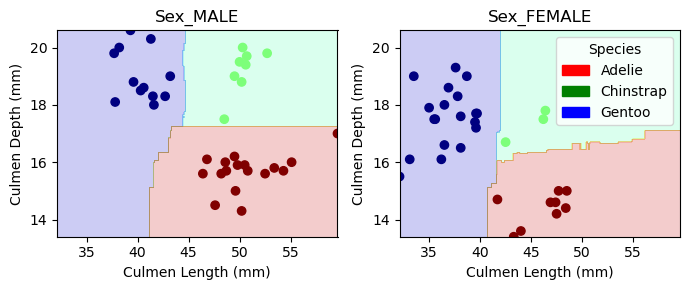
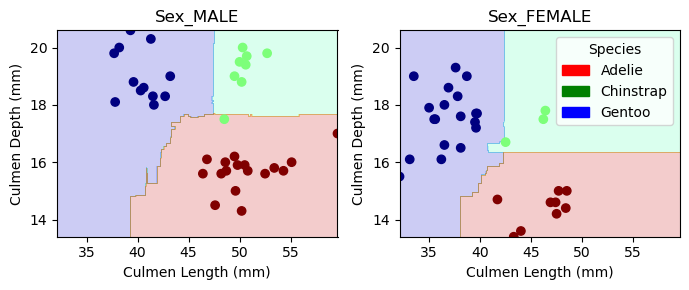
Revision 2

diff --git a/docs/posts/example-blog-post/index.html b/docs/posts/example-blog-post/index.html
@@ -214,18 +214,18 @@ background-size: cover;
 
 <section id="abstract" class="level1">
 <h1>Abstract</h1>
-<p>In this study, we apply machine learning techniques to classify three penguin species—Adelie, Chinstrap, and Gentoo—using the famous Palmer Penguins dataset. We preprocess the data by handling missing values and encoding categorical variables, then explored feature relationships through visualizations. Then, we find the three most effective features for a Random Forest classifier and trained it using selected features. We were able to achieve 100% accuracy on the test set. This underscores the effectiveness of the chosen features and model in accurately distinguishing between the penguin species.</p>
+<p>In this study, we apply machine learning techniques to classify three penguin species—Adelie, Chinstrap, and Gentoo—using the famous Palmer Penguins dataset. We preprocess the data by handling missing values and encoding categorical variables, then explored feature relationships through visualizations. Then, we find the three most effective features for a Random Forest classifier and trained it using selected features. We were able to achieve 99% accuracy on the test set. This underscores the effectiveness of the chosen features and model in accurately distinguishing between the penguin species.</p>
 </section>
 <section id="explore" class="level1">
 <h1>Explore</h1>
 <p>Before we start exploring the data, we need to load in the Palmer’s Penguins Dataset and take a look at the data we are given.</p>
-<div id="cell-4" class="cell" data-execution_count="103">
+<div id="cell-4" class="cell" data-execution_count="9">
 <div class="sourceCode cell-code" id="cb1"><pre class="sourceCode python code-with-copy"><code class="sourceCode python"><span id="cb1-1"><a href="#cb1-1" aria-hidden="true" tabindex="-1"></a><span class="im">import</span> pandas <span class="im">as</span> pd</span>
 <span id="cb1-2"><a href="#cb1-2" aria-hidden="true" tabindex="-1"></a></span>
 <span id="cb1-3"><a href="#cb1-3" aria-hidden="true" tabindex="-1"></a>train_url <span class="op">=</span> <span class="st">"https://raw.githubusercontent.com/PhilChodrow/ml-notes/main/data/palmer-penguins/train.csv"</span></span>
 <span id="cb1-4"><a href="#cb1-4" aria-hidden="true" tabindex="-1"></a>train <span class="op">=</span> pd.read_csv(train_url)</span>
 <span id="cb1-5"><a href="#cb1-5" aria-hidden="true" tabindex="-1"></a>train.head()</span></code><button title="Copy to Clipboard" class="code-copy-button"><i class="bi"></i></button></pre></div>
-<div class="cell-output cell-output-display" data-execution_count="103">
+<div class="cell-output cell-output-display" data-execution_count="9">
 <div>
 
 
@@ -360,7 +360,7 @@ background-size: cover;
 </div>
 </div>
 <p>Now, we need to clean this data. First, we can see that there are some missing values. In this class, we haven’t learned how to impude the missing values yet, so I will just get rid of the rows that have N/A values. Then, I will use the provided code to “one-hot encode” the categorical features. These categorical columns should now be True/False rather than Yes/No.</p>
-<div id="cell-6" class="cell" data-execution_count="140">
+<div id="cell-6" class="cell" data-execution_count="11">
 <div class="sourceCode cell-code" id="cb2"><pre class="sourceCode python code-with-copy"><code class="sourceCode python"><span id="cb2-1"><a href="#cb2-1" aria-hidden="true" tabindex="-1"></a><span class="im">from</span> sklearn.preprocessing <span class="im">import</span> LabelEncoder</span>
 <span id="cb2-2"><a href="#cb2-2" aria-hidden="true" tabindex="-1"></a>le <span class="op">=</span> LabelEncoder()</span>
 <span id="cb2-3"><a href="#cb2-3" aria-hidden="true" tabindex="-1"></a>le.fit(train[<span class="st">"Species"</span>])</span>
@@ -376,7 +376,7 @@ background-size: cover;
 <span id="cb2-13"><a href="#cb2-13" aria-hidden="true" tabindex="-1"></a></span>
 <span id="cb2-14"><a href="#cb2-14" aria-hidden="true" tabindex="-1"></a>X_train, y_train <span class="op">=</span> prepare_data(train)</span>
 <span id="cb2-15"><a href="#cb2-15" aria-hidden="true" tabindex="-1"></a>X_train.head()</span></code><button title="Copy to Clipboard" class="code-copy-button"><i class="bi"></i></button></pre></div>
-<div class="cell-output cell-output-display" data-execution_count="140">
+<div class="cell-output cell-output-display" data-execution_count="11">
 <div>
 
 
@@ -493,7 +493,7 @@ background-size: cover;
 </div>
 </div>
 <p>Now, I am going to merge the our target column with our features into a new dataset so that I can create visualizations easier.</p>
-<div id="cell-8" class="cell" data-execution_count="147">
+<div id="cell-8" class="cell" data-execution_count="12">
 <div class="sourceCode cell-code" id="cb3"><pre class="sourceCode python code-with-copy"><code class="sourceCode python"><span id="cb3-1"><a href="#cb3-1" aria-hidden="true" tabindex="-1"></a><span class="im">import</span> pandas <span class="im">as</span> pd</span>
 <span id="cb3-2"><a href="#cb3-2" aria-hidden="true" tabindex="-1"></a><span class="im">import</span> seaborn <span class="im">as</span> sns</span>
 <span id="cb3-3"><a href="#cb3-3" aria-hidden="true" tabindex="-1"></a><span class="im">import</span> matplotlib.pyplot <span class="im">as</span> plt</span>
@@ -517,7 +517,7 @@ background-size: cover;
 </div>
 </div>
 <p>This scatterplot shows the relationship between Flipper Length (mm) and Body Mass (g) by the three penguin species: Adelie, Chinstrap, and Gentoo. My first takeaway from this plot is that Gentoo penguins (represented by squares) have significantly higher higher body mass and longer flipper lengths than the other two species. Additionally, there is notable overlap between Adelie and Chinstrap penguins (represented by circles and X’s) in the middle of the graph. For a classification problem, this is a little alarming for me because this overlap suggests that Flipper Length and Body Mass alone won’t be able to reliably distinguish between Adelie and Chinstrap species. I may need to look for a different quantatative relationship to get to 100% accuracy.</p>
-<div id="cell-10" class="cell">
+<div id="cell-10" class="cell" data-execution_count="13">
 <div class="sourceCode cell-code" id="cb4"><pre class="sourceCode python code-with-copy"><code class="sourceCode python"><span id="cb4-1"><a href="#cb4-1" aria-hidden="true" tabindex="-1"></a><span class="co"># map to have species name on x-axis rather than 0,1,2</span></span>
 <span id="cb4-2"><a href="#cb4-2" aria-hidden="true" tabindex="-1"></a><span class="bu">map</span> <span class="op">=</span> {<span class="dv">0</span>: <span class="st">"Adelie"</span>, <span class="dv">1</span>: <span class="st">"Chinstrap"</span>, <span class="dv">2</span>: <span class="st">"Gentoo"</span>}</span>
 <span id="cb4-3"><a href="#cb4-3" aria-hidden="true" tabindex="-1"></a></span>
@@ -537,7 +537,7 @@ background-size: cover;
 </div>
 </div>
 <p>This boxplot illustrates the distribution of culmen length (mm) across the three penguin species. One observation is that Adelie penguins have the shortest culmen length by far. They have a median significantly lower than both Chinstrap and Gentoo penguins. Chinstrap penguins have the longest culmen length on average, with a higher IQR. Gentoo penguins tend to fall between the two but exhibit a slightly more compact distribution. This visualization reinforces the idea that culmen length could be a useful feature for distinguishing Adelie penguins from the other two species, but there may be some overlap between Chinstrap and Gentoo, so I’ll have to address this when I am searching for my 3 features.</p>
-<div id="cell-12" class="cell">
+<div id="cell-12" class="cell" data-execution_count="14">
 <div class="sourceCode cell-code" id="cb5"><pre class="sourceCode python code-with-copy"><code class="sourceCode python"><span id="cb5-1"><a href="#cb5-1" aria-hidden="true" tabindex="-1"></a><span class="co"># Create a new 'Sex' column based on one-hot encoding to make aggregating table easier</span></span>
 <span id="cb5-2"><a href="#cb5-2" aria-hidden="true" tabindex="-1"></a>df[<span class="st">"Sex"</span>] <span class="op">=</span> df[<span class="st">"Sex_MALE"</span>].<span class="bu">map</span>({<span class="va">True</span>: <span class="st">"Male"</span>, <span class="va">False</span>: <span class="st">"Female"</span>})</span>
 <span id="cb5-3"><a href="#cb5-3" aria-hidden="true" tabindex="-1"></a></span>
@@ -550,7 +550,7 @@ background-size: cover;
 <span id="cb5-10"><a href="#cb5-10" aria-hidden="true" tabindex="-1"></a>})</span>
 <span id="cb5-11"><a href="#cb5-11" aria-hidden="true" tabindex="-1"></a></span>
 <span id="cb5-12"><a href="#cb5-12" aria-hidden="true" tabindex="-1"></a>summary_table</span></code><button title="Copy to Clipboard" class="code-copy-button"><i class="bi"></i></button></pre></div>
-<div class="cell-output cell-output-display" data-execution_count="154">
+<div class="cell-output cell-output-display" data-execution_count="14">
 <div>
 
 
@@ -591,7 +591,7 @@ background-size: cover;
 </thead>
 <tbody>
 <tr class="odd">
-<td rowspan="2" data-quarto-table-cell-role="th" data-valign="top">0</td>
+<td rowspan="2" data-quarto-table-cell-role="th" data-valign="top">Adelie</td>
 <td data-quarto-table-cell-role="th">Female</td>
 <td>37.355769</td>
 <td>1.896686</td>
@@ -614,7 +614,7 @@ background-size: cover;
 <td>320.703367</td>
 </tr>
 <tr class="odd">
-<td rowspan="2" data-quarto-table-cell-role="th" data-valign="top">1</td>
+<td rowspan="2" data-quarto-table-cell-role="th" data-valign="top">Chinstrap</td>
 <td data-quarto-table-cell-role="th">Female</td>
 <td>46.722581</td>
 <td>3.169933</td>
@@ -637,7 +637,7 @@ background-size: cover;
 <td>375.951570</td>
 </tr>
 <tr class="odd">
-<td rowspan="2" data-quarto-table-cell-role="th" data-valign="top">2</td>
+<td rowspan="2" data-quarto-table-cell-role="th" data-valign="top">Gentoo</td>
 <td data-quarto-table-cell-role="th">Female</td>
 <td>45.455102</td>
 <td>1.971787</td>
@@ -670,7 +670,7 @@ background-size: cover;
 <section id="model" class="level1">
 <h1>Model</h1>
 <p>Now that I’ve done a little exploring of the data, it is time to determine which features will be predict the penguins in the “test” dataset. At a high level, I will iterate through every combination of 1 qualitative variable and 2 quantitative variables and use cross validation to determine which combination performs best within the training data.</p>
-<div id="cell-15" class="cell">
+<div id="cell-15" class="cell" data-execution_count="15">
 <div class="sourceCode cell-code" id="cb6"><pre class="sourceCode python code-with-copy"><code class="sourceCode python"><span id="cb6-1"><a href="#cb6-1" aria-hidden="true" tabindex="-1"></a><span class="im">import</span> pandas <span class="im">as</span> pd</span>
 <span id="cb6-2"><a href="#cb6-2" aria-hidden="true" tabindex="-1"></a><span class="im">import</span> numpy <span class="im">as</span> np</span>
 <span id="cb6-3"><a href="#cb6-3" aria-hidden="true" tabindex="-1"></a><span class="im">from</span> itertools <span class="im">import</span> combinations</span>
@@ -705,7 +705,7 @@ background-size: cover;
 <span id="cb6-32"><a href="#cb6-32" aria-hidden="true" tabindex="-1"></a></span>
 <span id="cb6-33"><a href="#cb6-33" aria-hidden="true" tabindex="-1"></a><span class="co"># Output the best feature set and corresponding accuracy</span></span>
 <span id="cb6-34"><a href="#cb6-34" aria-hidden="true" tabindex="-1"></a>best_features, best_score</span></code><button title="Copy to Clipboard" class="code-copy-button"><i class="bi"></i></button></pre></div>
-<div class="cell-output cell-output-display" data-execution_count="157">
+<div class="cell-output cell-output-display" data-execution_count="15">
 <pre><code>(['Sex_MALE', 'Culmen Length (mm)', 'Culmen Depth (mm)'],
  np.float64(0.9844645550527904))</code></pre>
 </div>
@@ -714,7 +714,7 @@ background-size: cover;
 </section>
 <section id="testing" class="level1">
 <h1>Testing</h1>
-<div id="cell-18" class="cell" data-execution_count="164">
+<div id="cell-18" class="cell" data-execution_count="16">
 <div class="sourceCode cell-code" id="cb8"><pre class="sourceCode python code-with-copy"><code class="sourceCode python"><span id="cb8-1"><a href="#cb8-1" aria-hidden="true" tabindex="-1"></a>test_url <span class="op">=</span> <span class="st">"https://raw.githubusercontent.com/PhilChodrow/ml-notes/main/data/palmer-penguins/test.csv"</span></span>
 <span id="cb8-2"><a href="#cb8-2" aria-hidden="true" tabindex="-1"></a>test <span class="op">=</span> pd.read_csv(test_url)</span>
 <span id="cb8-3"><a href="#cb8-3" aria-hidden="true" tabindex="-1"></a></span>
@@ -722,14 +722,15 @@ background-size: cover;
 <span id="cb8-5"><a href="#cb8-5" aria-hidden="true" tabindex="-1"></a>cols <span class="op">=</span> [<span class="st">'Culmen Length (mm)'</span>, <span class="st">'Culmen Depth (mm)'</span>,<span class="st">'Sex_MALE'</span>]</span>
 <span id="cb8-6"><a href="#cb8-6" aria-hidden="true" tabindex="-1"></a></span>
 <span id="cb8-7"><a href="#cb8-7" aria-hidden="true" tabindex="-1"></a>RF <span class="op">=</span> RandomForestClassifier(random_state<span class="op">=</span><span class="dv">7</span>)</span>
-<span id="cb8-8"><a href="#cb8-8" aria-hidden="true" tabindex="-1"></a>RF.fit(X_test[cols], y_test)</span>
-<span id="cb8-9"><a href="#cb8-9" aria-hidden="true" tabindex="-1"></a>RF.score(X_test[cols], y_test)</span></code><button title="Copy to Clipboard" class="code-copy-button"><i class="bi"></i></button></pre></div>
-<div class="cell-output cell-output-display" data-execution_count="164">
-<pre><code>1.0</code></pre>
+<span id="cb8-8"><a href="#cb8-8" aria-hidden="true" tabindex="-1"></a>RF.fit(X_train[cols], y_train)</span>
+<span id="cb8-9"><a href="#cb8-9" aria-hidden="true" tabindex="-1"></a>test_score <span class="op">=</span> RF.score(X_test[cols], y_test)</span>
+<span id="cb8-10"><a href="#cb8-10" aria-hidden="true" tabindex="-1"></a>test_score</span></code><button title="Copy to Clipboard" class="code-copy-button"><i class="bi"></i></button></pre></div>
+<div class="cell-output cell-output-display" data-execution_count="16">
+<pre><code>0.9852941176470589</code></pre>
 </div>
 </div>
-<p>Here, I fit a random forest using the features that I found above with the test data and was able to get 100% accuracy! Now, let’s take a look at the decision boundaries.</p>
-<div id="cell-20" class="cell" data-execution_count="131">
+<p>Here, I fit a random forest using the training data and evaluation it on the unseen test data. I was able to get ~99% accuracy. Now, let’s take a look at the decision boundaries.</p>
+<div id="cell-20" class="cell" data-execution_count="18">
 <div class="sourceCode cell-code" id="cb10"><pre class="sourceCode python code-with-copy"><code class="sourceCode python"><span id="cb10-1"><a href="#cb10-1" aria-hidden="true" tabindex="-1"></a><span class="im">from</span> matplotlib.patches <span class="im">import</span> Patch</span>
 <span id="cb10-2"><a href="#cb10-2" aria-hidden="true" tabindex="-1"></a><span class="im">from</span> matplotlib <span class="im">import</span> pyplot <span class="im">as</span> plt</span>
 <span id="cb10-3"><a href="#cb10-3" aria-hidden="true" tabindex="-1"></a><span class="im">import</span> numpy <span class="im">as</span> np</span>
@@ -784,12 +785,11 @@ background-size: cover;
 <span id="cb10-52"><a href="#cb10-52" aria-hidden="true" tabindex="-1"></a>      </span>
 <span id="cb10-53"><a href="#cb10-53" aria-hidden="true" tabindex="-1"></a>      plt.tight_layout()</span></code><button title="Copy to Clipboard" class="code-copy-button"><i class="bi"></i></button></pre></div>
 </div>
-<div id="cell-21" class="cell" data-execution_count="166">
+<div id="cell-21" class="cell" data-execution_count="21">
 <div class="sourceCode cell-code" id="cb11"><pre class="sourceCode python code-with-copy"><code class="sourceCode python"><span id="cb11-1"><a href="#cb11-1" aria-hidden="true" tabindex="-1"></a>cols <span class="op">=</span> [<span class="st">'Culmen Length (mm)'</span>, <span class="st">'Culmen Depth (mm)'</span>,<span class="st">'Sex_MALE'</span>, <span class="st">"Sex_FEMALE"</span>]</span>
-<span id="cb11-2"><a href="#cb11-2" aria-hidden="true" tabindex="-1"></a>RF <span class="op">=</span> RandomForestClassifier(random_state<span class="op">=</span><span class="dv">7</span>)</span>
-<span id="cb11-3"><a href="#cb11-3" aria-hidden="true" tabindex="-1"></a>RF.fit(X_train[cols], y_train)</span>
-<span id="cb11-4"><a href="#cb11-4" aria-hidden="true" tabindex="-1"></a></span>
-<span id="cb11-5"><a href="#cb11-5" aria-hidden="true" tabindex="-1"></a>plot_regions(RF, X_train[cols], y_train)</span></code><button title="Copy to Clipboard" class="code-copy-button"><i class="bi"></i></button></pre></div>
+<span id="cb11-2"><a href="#cb11-2" aria-hidden="true" tabindex="-1"></a>RF.fit(X_train[cols], y_train)</span>
+<span id="cb11-3"><a href="#cb11-3" aria-hidden="true" tabindex="-1"></a></span>
+<span id="cb11-4"><a href="#cb11-4" aria-hidden="true" tabindex="-1"></a>plot_regions(RF, X_train[cols], y_train)</span></code><button title="Copy to Clipboard" class="code-copy-button"><i class="bi"></i></button></pre></div>
 <div class="cell-output cell-output-display">
 <div>
 <figure class="figure">
@@ -800,10 +800,8 @@ background-size: cover;
 </div>
 <p>I used the plot_regions() function that we were given to show how the training data looks with a Random Forest Model and the feaures Culmen Length, Culmen Depth, and Sex. The boundaries for a Random Forest are a little funky but we can see how effective this model and these features are for classifying the penguins. The blue (Gentoo), red (Adelie), and green (Chinstrap) regions show how the model segments the graph. I notice that Gentoo are in the upper left showing that culmen depth might be the primary classfying in distinguishing. For Chinstrap and Adelie there is slightly more overlap. Some Chinstrap points appear in the red region. This suggests that while culmen depth helps differentiate Gentoo penguins, it may not be as reliable in distinguishing Adelie and Chinstrap.</p>
 <p>The decision boundaries for males and females have the same general shape, but are different. This indicates that sex influences the classification. The boundaries for Adelie and Chinstrap penguins appear more distinct in females than in males, which may imply that culmen depth differences between these two species are more pronounced in female penguins. This reinforces why “Sex_MALE” was selected as an important feature—it helps refine the classification process and improves separation between species.</p>
-<div id="cell-23" class="cell" data-execution_count="167">
-<div class="sourceCode cell-code" id="cb12"><pre class="sourceCode python code-with-copy"><code class="sourceCode python"><span id="cb12-1"><a href="#cb12-1" aria-hidden="true" tabindex="-1"></a>RF <span class="op">=</span> RandomForestClassifier(random_state<span class="op">=</span><span class="dv">7</span>)</span>
-<span id="cb12-2"><a href="#cb12-2" aria-hidden="true" tabindex="-1"></a>RF.fit(X_test[cols], y_test)</span>
-<span id="cb12-3"><a href="#cb12-3" aria-hidden="true" tabindex="-1"></a>plot_regions(RF, X_test[cols], y_test)</span></code><button title="Copy to Clipboard" class="code-copy-button"><i class="bi"></i></button></pre></div>
+<div id="cell-23" class="cell" data-execution_count="29">
+<div class="sourceCode cell-code" id="cb12"><pre class="sourceCode python code-with-copy"><code class="sourceCode python"><span id="cb12-1"><a href="#cb12-1" aria-hidden="true" tabindex="-1"></a>plot_regions(RF, X_test[cols], y_test)</span></code><button title="Copy to Clipboard" class="code-copy-button"><i class="bi"></i></button></pre></div>
 <div class="cell-output cell-output-display">
 <div>
 <figure class="figure">
@@ -812,25 +810,23 @@ background-size: cover;
 </div>
 </div>
 </div>
-<p>I used the plot_regions() function that we were given to show how the testing data looks with a Random Forest Model and the feaures Culmen Length, Culmen Depth, and Sex. This model achieved 100% accuracy on the test data, meaning that every penguin was correctly classified. The clear separation of species in the decision regions supports why this model was so effective.</p>
-<div id="cell-25" class="cell" data-execution_count="169">
+<p>I used the plot_regions() function that we were given to show how the decision boundaries on the testing data with my RF model using the feaures Culmen Length, Culmen Depth, and Sex. This model achieved 67/68 accuracy on the test data, meaning that every penguin was correctly except for 1. You can see the one error in my model on the test data where the Chinstrap penguin is in the Adelie section.</p>
+<div id="cell-25" class="cell" data-execution_count="32">
 <div class="sourceCode cell-code" id="cb13"><pre class="sourceCode python code-with-copy"><code class="sourceCode python"><span id="cb13-1"><a href="#cb13-1" aria-hidden="true" tabindex="-1"></a><span class="im">from</span> sklearn.metrics <span class="im">import</span> confusion_matrix</span>
-<span id="cb13-2"><a href="#cb13-2" aria-hidden="true" tabindex="-1"></a></span>
-<span id="cb13-3"><a href="#cb13-3" aria-hidden="true" tabindex="-1"></a><span class="co"># Generate predictions on the test set</span></span>
-<span id="cb13-4"><a href="#cb13-4" aria-hidden="true" tabindex="-1"></a>y_test_pred <span class="op">=</span> RF.predict(X_test[cols])</span>
+<span id="cb13-2"><a href="#cb13-2" aria-hidden="true" tabindex="-1"></a>cols <span class="op">=</span> [<span class="st">'Culmen Length (mm)'</span>, <span class="st">'Culmen Depth (mm)'</span>,<span class="st">'Sex_MALE'</span>]</span>
+<span id="cb13-3"><a href="#cb13-3" aria-hidden="true" tabindex="-1"></a>RF <span class="op">=</span> RandomForestClassifier(random_state<span class="op">=</span><span class="dv">7</span>)</span>
+<span id="cb13-4"><a href="#cb13-4" aria-hidden="true" tabindex="-1"></a>RF.fit(X_train[cols], y_train)</span>
 <span id="cb13-5"><a href="#cb13-5" aria-hidden="true" tabindex="-1"></a></span>
-<span id="cb13-6"><a href="#cb13-6" aria-hidden="true" tabindex="-1"></a><span class="co"># Compute confusion matrix</span></span>
+<span id="cb13-6"><a href="#cb13-6" aria-hidden="true" tabindex="-1"></a>y_test_pred <span class="op">=</span> RF.predict(X_test[cols])</span>
 <span id="cb13-7"><a href="#cb13-7" aria-hidden="true" tabindex="-1"></a>C <span class="op">=</span> confusion_matrix(y_test, y_test_pred)</span>
-<span id="cb13-8"><a href="#cb13-8" aria-hidden="true" tabindex="-1"></a></span>
-<span id="cb13-9"><a href="#cb13-9" aria-hidden="true" tabindex="-1"></a><span class="co"># Display confusion matrix</span></span>
-<span id="cb13-10"><a href="#cb13-10" aria-hidden="true" tabindex="-1"></a>C</span></code><button title="Copy to Clipboard" class="code-copy-button"><i class="bi"></i></button></pre></div>
-<div class="cell-output cell-output-display" data-execution_count="169">
+<span id="cb13-8"><a href="#cb13-8" aria-hidden="true" tabindex="-1"></a>C</span></code><button title="Copy to Clipboard" class="code-copy-button"><i class="bi"></i></button></pre></div>
+<div class="cell-output cell-output-display" data-execution_count="32">
 <pre><code>array([[31,  0,  0],
-       [ 0, 11,  0],
+       [ 0, 10,  1],
        [ 0,  0, 26]])</code></pre>
 </div>
 </div>
-<p>The diagonal entires are the ones my model got correctly. This is 100% accurate.</p>
+<p>The diagonal entires are the ones my model got correctly. The confusion matrix shows that the model performed well, correctly classifying 67 out of 68 test samples. The only misclassification occurred in the second row, where one Chinstrap penguin was mistakenly classified as Adelie. This suggests that while the model is effective, there may be some overlap in feature distributions between Chinstrap and Adelie, likely due to similarities in culmen depth or length.</p>
 </section>
 <section id="discussion" class="level1">
 <h1>Discussion</h1>

diff --git a/docs/index.html b/docs/index.html
@@ -223,7 +223,7 @@ window.Quarto = {
 
 <div class="quarto-listing quarto-listing-container-default" id="listing-listing">
 <div class="list quarto-listing-default">
-<div class="quarto-post image-right" data-index="0" data-listing-date-sort="1740373200000" data-listing-file-modified-sort="1740442753123" data-listing-date-modified-sort="NaN" data-listing-reading-time-sort="6" data-listing-word-count-sort="1154">
+<div class="quarto-post image-right" data-index="0" data-listing-date-sort="1740373200000" data-listing-file-modified-sort="1740674850659" data-listing-date-modified-sort="NaN" data-listing-reading-time-sort="7" data-listing-word-count-sort="1224">
 <div class="thumbnail">
 <p><a href="./posts/example-blog-post/index.html" class="no-external"></a></p><a href="./posts/example-blog-post/index.html" class="no-external">
 <p><img loading="lazy" src="./posts/example-blog-post/PalmerPenguin.png" class="thumbnail-image"></p>
